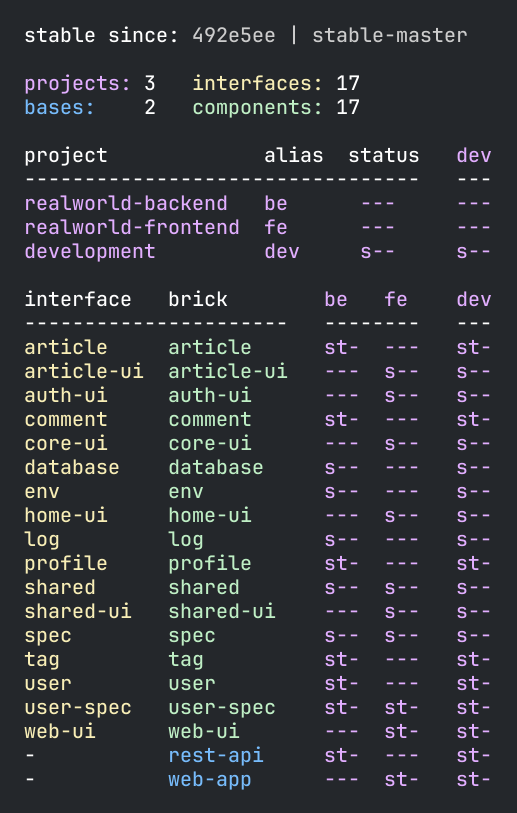
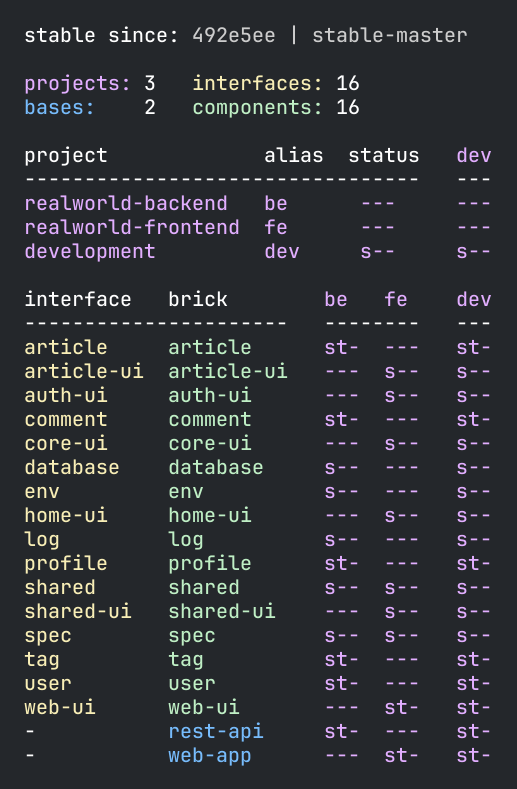
Move user-spec into spec and delete user-spec.

diff --git a/readme.md b/readme.md
@@ -64,13 +64,13 @@ A convenient way to run the `poly` tool is to start a `shell`:
 1. [Install](https://clojure.org/guides/install_clojure) the `clojure` command, if you haven't installed it already.
 2. Start a `poly` shell, by executing `clojure -M:poly` from the workspace root (_clojure-polylith-realworld-example-app_).
 
-<img src="images/shell.png" alt="overview" width="300">
+<img src="images/shell.png" alt="shell" width="300">
 
 From here we can execute different commands, e.g. the `info` command:
 ```sh
 clojure-polylith-realworld-example-app$ info
 ```
-<img src="images/info.png" alt="overview" width="300">
+<img src="images/info.png" alt="info" width="300">
 
 For detailed information, see [Workspace Info](#workspace-info) section below.
 
@@ -138,16 +138,24 @@ supplementary development sources, and projects. The subdirectories of the works
 ```
 ▾ bases
   ▸ rest-api
+  ▸ web-app
 ▾ components
   ▸ article
+  ▸ article-ui
+  ▸ auth-ui
   ▸ comment
+  ▸ core-ui
   ▸ database
   ▸ env
+  ▸ home-ui
   ▸ log
   ▸ profile
+  ▸ shared
+  ▸ shared-ui
   ▸ spec
   ▸ tag
   ▸ user
+  ▸ web-ui
 ▸ development
 ▾ projects
   ▸ realworld-backend
